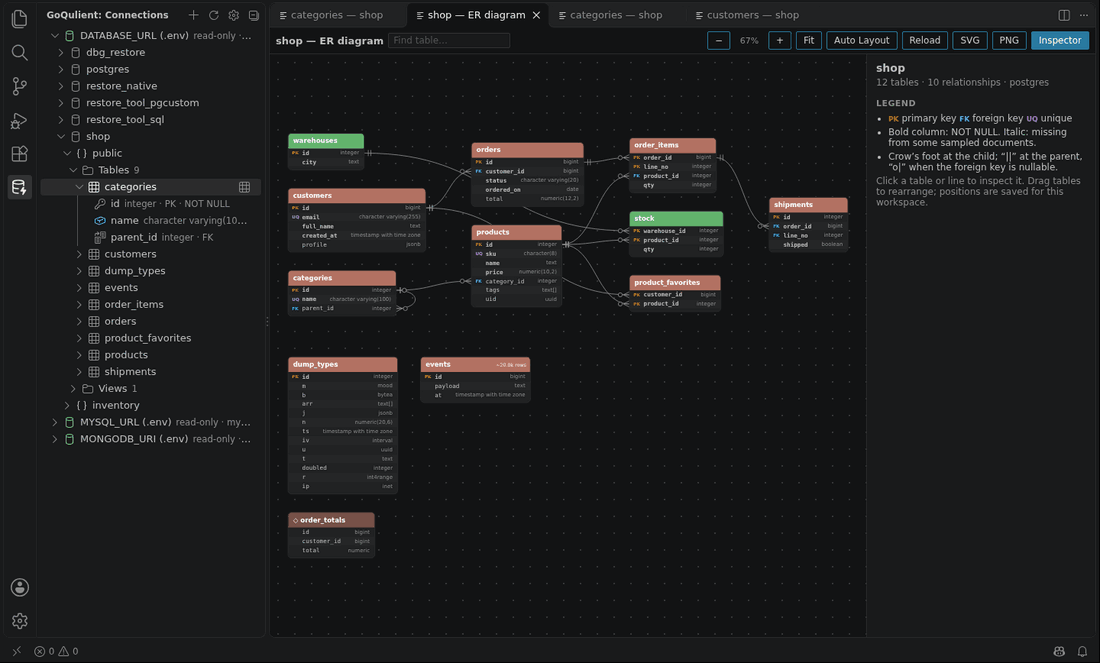
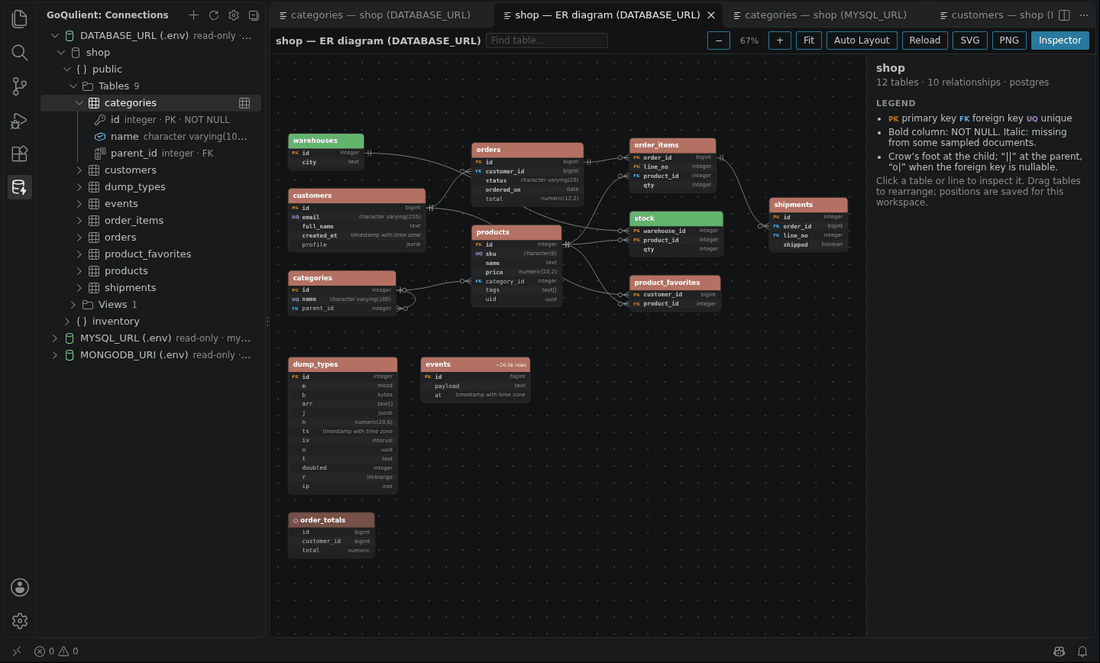
feat(vscode): show only the profile's database, and name the connection in panel titles
A connection whose profile names a database lists only that database; "Show
All Databases" / "Show Only the Connection's Database" in its context menu is
remembered per connection in workspaceState and wins over the new
goqulient.showAllDatabases setting (default false). Profiles without a
database list everything, as before.

Table and ER panel titles name the connection ("categories — shop
(DATABASE_URL)"): an env connection with its default name by its variable,
the connection name cut with … to keep the title within 60 characters.
openTable takes an optional title like openErDiagram.

diff --git a/vscode/src/tree/provider.ts b/vscode/src/tree/provider.ts
@@ -10,6 +10,7 @@ import {
   KIND_SINGULAR,
   columnDescription,
   connectionDescription,
+  databaseFilter,
   connectionTooltip,
   groupObjects,
   isBrowsable,
@@ -67,15 +68,25 @@ export class ConnectionTree implements vscode.TreeDataProvider<Node>, vscode.Dis
   private readonly cache = new Map<string, Promise<unknown>>();
   private readonly disposables: vscode.Disposable[] = [];
   private readonly onFirstShow: () => void;
+  /** Per-connection "Show All Databases" choices (`goqulient.showAllDatabases.<id>`). */
+  private readonly state: vscode.Memento;
   private shown = false;
 
-  constructor(store: ConnectionStore, sessions: Sessions, onFirstShow: () => void) {
+  constructor(store: ConnectionStore, sessions: Sessions, state: vscode.Memento, onFirstShow: () => void) {
     this.store = store;
     this.sessions = sessions;
+    this.state = state;
     this.onFirstShow = onFirstShow;
     this.rebuild();
     const off = sessions.onDidChange((id, collapsed) => this.sessionChanged(id, collapsed));
-    this.disposables.push(this.changed, store.onDidChange(() => this.reload()), { dispose: off });
+    this.disposables.push(
+      this.changed,
+      store.onDidChange(() => this.reload()),
+      { dispose: off },
+      vscode.workspace.onDidChangeConfiguration((e) => {
+        if (e.affectsConfiguration('goqulient.showAllDatabases')) this.changed.fire(undefined);
+      }),
+    );
   }
 
   dispose(): void {
@@ -91,6 +102,18 @@ export class ConnectionTree implements vscode.TreeDataProvider<Node>, vscode.Dis
     this.cache.clear();
     await this.store.refresh();
     this.changed.fire(undefined);
+  }
+
+  /** The only database `conn` shows, or undefined when it lists every database on the server. */
+  databaseFilter(conn: Connection): string | undefined {
+    const setting = vscode.workspace.getConfiguration('goqulient').get<boolean>('showAllDatabases') === true;
+    return databaseFilter(conn.profile?.database, this.state.get<boolean>(showAllKey(conn.id)), setting);
+  }
+
+  /** Remembers "Show All Databases" for this connection (in the workspace) and redraws it. */
+  async setShowAllDatabases(node: ConnectionNode, showAll: boolean): Promise<void> {
+    await this.state.update(showAllKey(node.conn.id), showAll);
+    this.changed.fire(node);
   }
 
   /** Drops the cached lists of `node` and everything below it, then redraws it (a failed connection tries again). */
@@ -230,7 +253,10 @@ export class ConnectionTree implements vscode.TreeDataProvider<Node>, vscode.Dis
             ? new vscode.ThemeIcon('database', new vscode.ThemeColor('errorForeground'))
             : new vscode.ThemeIcon('database');
     // Space-separated tokens, matched with `viewItem =~ /\bconnected\b/` in package.json menus.
-    item.contextValue = ['goqulient.connection', c.invalid ? 'invalid' : state.status, c.source === 'env' ? 'env' : 'settings'].join(' ');
+    const scope = !c.profile?.database?.trim() ? undefined : this.databaseFilter(c) === undefined ? 'dball' : 'dbfilter';
+    item.contextValue = ['goqulient.connection', c.invalid ? 'invalid' : state.status, c.source === 'env' ? 'env' : 'settings', scope]
+      .filter(Boolean)
+      .join(' ');
     return item;
   }
 
@@ -319,6 +345,8 @@ export class ConnectionTree implements vscode.TreeDataProvider<Node>, vscode.Dis
     try {
       switch (node.type) {
         case 'connection': {
+          const only = this.databaseFilter(conn.conn);
+          if (only !== undefined) return [{ type: 'database', conn, parent: node, database: only }];
           const { databases } = await this.cached<{ databases: string[] }>(node, 'catalog/databases', {});
           if (!databases.length) return [{ type: 'message', parent: node, tone: 'empty', text: 'No databases' }];
           return databases.map((database) => ({ type: 'database', conn, parent: node, database }));
@@ -378,6 +406,10 @@ export class ConnectionTree implements vscode.TreeDataProvider<Node>, vscode.Dis
     }
     return p;
   }
+}
+
+function showAllKey(id: string): string {
+  return `goqulient.showAllDatabases.${id}`;
 }
 
 const OBJECT_ICON: Record<string, string> = {

diff --git a/vscode/src/tree/commands.ts b/vscode/src/tree/commands.ts
@@ -2,8 +2,8 @@
 // connecting, retry, copy name. Commands that take a node also work from the palette on the tree's selection.
 import * as vscode from 'vscode';
 import type { Engine } from '../views/index.ts';
-import { openErDiagram, openTable } from '../views/index.ts';
-import { erLayoutKey } from './model.ts';
+import { erTitle, openErDiagram, openTable, tableTitle } from '../views/index.ts';
+import { erLayoutKey, shortConnectionName, withConnection } from './model.ts';
 import type { ConnectionNode, ConnectionTree, Node, ObjectNode } from './provider.ts';
 import type { Sessions } from './sessions.ts';
 
@@ -63,6 +63,14 @@ export function registerTreeCommands(c: TreeCommandContext): vscode.Disposable[]
       if (n?.type === 'database') return openEr(c, n.conn, n.database, []);
       if (n?.type === 'schema') return openEr(c, n.conn, n.database, [n.schema]);
     }),
+    vscode.commands.registerCommand('goqulient.showAllDatabases', (node?: Node) => {
+      const conn = connectionOf(selected(node));
+      if (conn) return tree.setShowAllDatabases(conn, true);
+    }),
+    vscode.commands.registerCommand('goqulient.showConnectionDatabase', (node?: Node) => {
+      const conn = connectionOf(selected(node));
+      if (conn) return tree.setShowAllDatabases(conn, false);
+    }),
     vscode.commands.registerCommand('goqulient.copyName', async (node?: Node) => {
       const name = nameOf(selected(node));
       if (name !== undefined) await vscode.env.clipboard.writeText(name);
@@ -101,7 +109,8 @@ function openObject(c: TreeCommandContext, node: ObjectNode): vscode.WebviewPane
   const conn = node.conn.conn;
   const maxRows = conn.profile?.maxRows;
   const pageSize = typeof maxRows === 'number' && maxRows >= 1 ? maxRows : DEFAULT_PAGE_SIZE;
-  return openTable(c.engine, sessionId, node.ref, conn.readOnly, { extensionUri: c.context.extensionUri, pageSize });
+  const title = withConnection(tableTitle(node.ref), shortConnectionName(conn));
+  return openTable(c.engine, sessionId, node.ref, conn.readOnly, { extensionUri: c.context.extensionUri, pageSize, title });
 }
 
 function openEr(c: TreeCommandContext, conn: ConnectionNode, database: string, schemas: string[]): vscode.WebviewPanel | undefined {
@@ -110,5 +119,6 @@ function openEr(c: TreeCommandContext, conn: ConnectionNode, database: string, s
   const key = erLayoutKey(conn.conn.id, database, schemas);
   return openErDiagram(c.engine, sessionId, database, schemas, key, c.context.workspaceState, {
     extensionUri: c.context.extensionUri,
+    title: withConnection(erTitle(database, schemas), shortConnectionName(conn.conn)),
   });
 }

diff --git a/vscode/test/tree.test.ts b/vscode/test/tree.test.ts
@@ -7,10 +7,13 @@ import {
   columnDescription,
   connectionDescription,
   connectionTooltip,
+  databaseFilter,
   erLayoutKey,
   groupObjects,
   isAuthFailure,
+  shortConnectionName,
   sourceGroups,
+  withConnection,
 } from '../src/tree/model.ts';
 import { Sessions, type ConnectHooks, type Target } from '../src/tree/sessions.ts';
 import type { ObjectRef } from '../src/views/protocol.ts';
@@ -31,6 +34,28 @@ describe('tree model', () => {
   test('ER layout key per connection, database and schemas', () => {
     assert.equal(erLayoutKey('c1', 'shop', []), 'goqulient.er:c1:shop:');
     assert.equal(erLayoutKey('c1', 'shop', ['public', 'audit']), 'goqulient.er:c1:shop:public,audit');
+  });
+
+  test('a profile with a database shows only it unless Show All Databases is on', () => {
+    assert.equal(databaseFilter('shop', undefined, false), 'shop');
+    assert.equal(databaseFilter('shop', undefined, true), undefined, 'the setting');
+    assert.equal(databaseFilter('shop', true, false), undefined, 'the per-connection choice wins over the setting');
+    assert.equal(databaseFilter('shop', false, true), 'shop');
+    assert.equal(databaseFilter(undefined, false, false), undefined, 'no database in the profile: everything');
+    assert.equal(databaseFilter('  ', undefined, false), undefined);
+  });
+
+  test('panel titles name the connection, shortened when long', () => {
+    const env = { name: 'DATABASE_URL (.env)', source: 'env' as const, variable: 'DATABASE_URL', file: '.env' };
+    assert.equal(shortConnectionName(env), 'DATABASE_URL');
+    assert.equal(shortConnectionName({ ...env, name: 'Main' }), 'Main', 'a name from goqulient.envConnections');
+    assert.equal(shortConnectionName({ name: 'Prod', source: 'user' }), 'Prod');
+    assert.equal(withConnection('categories — shop', 'DATABASE_URL'), 'categories — shop (DATABASE_URL)');
+    const long = withConnection('categories — shop', 'Analytics replica in eu-west-1 behind the bastion host');
+    assert.equal(long, 'categories — shop (Analytics replica in eu-west-1 behind t…)');
+    assert.ok(long.length <= 60);
+    const longBase = withConnection('a_very_long_table_name_for_reporting_purposes — warehouse', 'Analytics replica');
+    assert.equal(longBase, 'a_very_long_table_name_for_reporting_purposes — warehouse (Analytics r…)', 'never below 12');
   });
 
   test('wrong-password messages of the three drivers, and not other access errors', () => {

diff --git a/vscode/src/tree/model.ts b/vscode/src/tree/model.ts
@@ -112,3 +112,28 @@ export function columnDescription(c: Attribute): string {
     .filter(Boolean)
     .join(' · ');
 }
+
+/**
+ * The only database a connection's tree shows, or undefined for all of them: a profile that names a database shows just
+ * that one unless "Show All Databases" is on (per connection, else the `goqulient.showAllDatabases` setting).
+ */
+export function databaseFilter(profileDatabase: string | undefined, override: boolean | undefined, showAllSetting: boolean): string | undefined {
+  const db = profileDatabase?.trim();
+  if (!db) return undefined;
+  return (override ?? showAllSetting) ? undefined : db;
+}
+
+/** How panel titles name a connection: an env connection with its default name by its variable, others by name. */
+export function shortConnectionName(c: Pick<Connection, 'name' | 'source' | 'variable' | 'file'>): string {
+  if (c.source === 'env' && c.variable && c.name === `${c.variable} (${c.file})`) return c.variable;
+  return c.name;
+}
+
+const MIN_CONNECTION = 12;
+
+/** `base (connection)`, with the connection name cut to keep the title within `max` characters (never below 12). */
+export function withConnection(base: string, connection: string, max = 60): string {
+  const room = Math.max(MIN_CONNECTION, max - base.length - 3);
+  const name = [...connection].length > room ? `${[...connection].slice(0, room - 1).join('').trimEnd()}…` : connection;
+  return `${base} (${name})`;
+}

diff --git a/vscode/src/views/tablePanel.ts b/vscode/src/views/tablePanel.ts
@@ -9,6 +9,8 @@ export interface TableOptions {
   extensionUri: vscode.Uri;
   /** The profile's page size (`maxRows`). */
   pageSize: number;
+  /** Panel title; defaults to `tableTitle(object)`. */
+  title?: string;
 }
 
 const panels = new Map<string, vscode.WebviewPanel>();
@@ -31,7 +33,7 @@ export function openTable(
     existing.reveal();
     return existing;
   }
-  const title = tableTitle(object);
+  const title = options.title ?? tableTitle(object);
   const panel = createPanel('goqulient.table', title, options.extensionUri, 'table');
   panels.set(key, panel);
   const post = poster<TableToWebview>(panel);

diff --git a/vscode/src/extension.ts b/vscode/src/extension.ts
@@ -53,7 +53,7 @@ export function activate(context: vscode.ExtensionContext): TestApi | undefined 
     },
   });
   const sessions = new Sessions(client, connectHooks(store));
-  const tree = new ConnectionTree(store, sessions, () =>
+  const tree = new ConnectionTree(store, sessions, context.workspaceState, () =>
     // The tree was shown: start the engine now, so expanding a connection doesn't wait for it.
     void client.info().catch((e) => log.warn(`Couldn't start the engine: ${e instanceof Error ? e.message : String(e)}`)),
   );

diff --git a/docs/vscode-extension.md b/docs/vscode-extension.md
@@ -272,8 +272,8 @@ extension host (src/views/*Panel.ts)            webview (webview/*.ts → dist/w
 - ⚠ Known gaps: copies of clipped cells copy the clipped text (no `fullRows` yet); no webview serializer, so panels don't
   survive a window reload; one editor font measurement per model (a font change needs Reload); the dev harness's layout
   is a stub, not `er/layout`. In a real VS Code the e2e test checks that each engine's first page and the ER model +
-  `er/layout` arrive (not what is drawn: look at its screenshots). Panel titles don't name the connection, so two
-  connections' `categories — shop` tabs look the same.
+  `er/layout` arrive (not what is drawn: look at its screenshots). The sidebar passes titles that name the connection
+  (see the tree section).
 
 ## Sidebar tree (VSX-11)
 View `goqulient.connections` in the "GoQulient" activity bar container. `ConnectionTree` (`tree/provider.ts`) shows the store's list;
@@ -281,7 +281,7 @@ View `goqulient.connections` in the "GoQulient" activity bar container. `Connect
 ```
 [User Settings | Workspace Settings | <env file>]   only when connections come from more than one source
   connection            database icon; description "connecting… · read-only · <redacted endpoint>" or why it's invalid
-    database            catalog/databases (every database the server lists)
+    database            the profile's database only, or catalog/databases with "Show All Databases" (see below)
       schema            PostgreSQL only: catalog/schemas
         Tables (n) …    catalog/objects grouped in DBObjectKind.allCases order (app's ObjectGroups), empty kinds hidden
           object        table/view/materialized view/collection: double-click or Enter opens it; functions/sequences don't
@@ -311,13 +311,21 @@ View `goqulient.connections` in the "GoQulient" activity bar container. `Connect
   schema = that one) → `openErDiagram` with `erLayoutKey` = `goqulient.er:<connId>:<db>:<schemas,>`. Refresh, Disconnect, Copy
   Name, Forget Saved Password (settings connections). View title: Add Connection, Refresh Connections, Open Settings.
   Welcome content when the list is empty (trusted and untrusted variants).
-- `contextValue`: `goqulient.connection <idle|connecting|connected|failed|invalid> <settings|env>`, `goqulient.database`,
+- `contextValue`: `goqulient.connection <idle|connecting|connected|failed|invalid> <settings|env> [dbfilter|dball]`, `goqulient.database`,
   `goqulient.schema`, `goqulient.group`, `goqulient.object`, `goqulient.routine`, `goqulient.column`, `goqulient.error`; menus match them with
   `viewItem =~ /…/`.
 - Secrets: labels, descriptions and tooltips only use names, the redacted endpoint and engine messages (the e2e checks
   every item it sees for the test password).
-- ⚠ Known gaps: all databases on the server are listed even when the profile names one (the app does the same); no
-  filter box; no "connected" indicator per database for PostgreSQL's per-database pools; double-click relies on timing.
+- **Databases shown**: a profile that names a database shows only that one (no `catalog/databases` call, so it also works
+  without the right to list databases); a profile without one lists every database. "Show All Databases" / "Show Only the
+  Connection's Database" in the connection's context menu (`contextValue` token `dbfilter` / `dball`) is remembered per
+  connection in `workspaceState` (`goqulient.showAllDatabases.<id>`) and wins over the `goqulient.showAllDatabases`
+  setting (default false). `databaseFilter` in `tree/model.ts`.
+- **Panel titles** name the connection: `categories — shop (DATABASE_URL)`, `shop — ER diagram (DATABASE_URL)`.
+  `shortConnectionName` uses the variable for an env connection with its default name, else the connection name;
+  `withConnection` cuts the name with `…` to keep the title within 60 characters (never below 12). The panels take it as
+  `TableOptions.title` / `ErOptions.title`.
+- ⚠ Known gaps: no filter box; no "connected" indicator per database for PostgreSQL's per-database pools; double-click relies on timing.
 
 ### Checklists
 **Add a tree node type**
@@ -428,8 +436,9 @@ View `goqulient.connections` in the "GoQulient" activity bar container. `Connect
   test network, with a scratch workspace whose `.env` has `DATABASE_URL` (pg-primary), `MYSQL_URL` (`ssl-mode=REQUIRED`)
   and `MONGODB_URI`, and `GOKU_ENGINE_PATH` = the Linux debug engine. `test-e2e/suite.cjs` uses the test API that
   `activate` returns in `ExtensionMode.Test` (`tree`, `view`, `sessions`, `store`, `engine`, `answered`) and checks:
-  the engine isn't started by activation; three read-only connections; each expands to `shop` and its tables/collections
-  and columns; `goqulient.openTable` gets a `table/page` answer for each engine; the ER diagram gets `schema/introspect` and
+  the engine isn't started by activation; three read-only connections; each shows only `shop` until Show All Databases
+  (then `postgres` too, and back); each expands to its tables/collections and columns; `goqulient.openTable` gets a
+  `table/page` answer for each engine and its title names the connection; the ER diagram gets `schema/introspect` and
   `er/layout` (so the webview measured the boxes); Disconnect and Restart Engine leave connections idle and the next
   expand reconnects; no item shows the password. Reads only. Set `GOKU_E2E_SCREENSHOTS` to keep `table.png`/`er.png`
   of the window and look at them. Not in CI yet.

diff --git a/vscode/README.md b/vscode/README.md
@@ -27,6 +27,7 @@ connections are enforced by the server too, and passwords stay in VS Code's secr
 | `goqulient.connections` | Connections in the Goku app's profile format (`name`, `kind`, `hosts`, `user`, `database`, `ssl`, `readOnly`, …). No passwords here: GoQulient asks and keeps them in secret storage. |
 | `goqulient.envFiles` | Files searched for connection variables, relative to each workspace folder (default `.env`). |
 | `goqulient.envConnections` | More variables holding connection URLs, e.g. `{"url": "ANALYTICS_DB_URL", "name": "Analytics", "readOnly": false}`. |
+| `goqulient.showAllDatabases` | List every database on the server for connections that name one (default: only that database). **Show All Databases** in a connection's context menu changes it for that connection. |
 | `goqulient.enginePath` | Use a locally built engine (machine setting, for development). |
 
 ## Security
